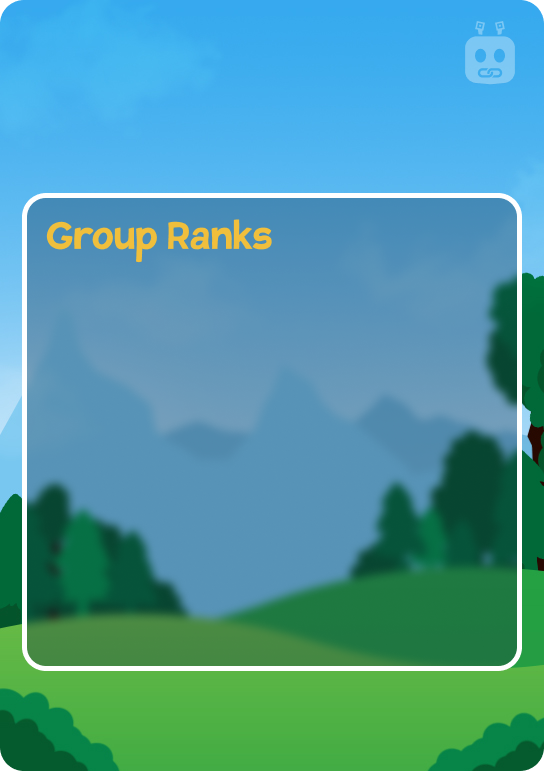
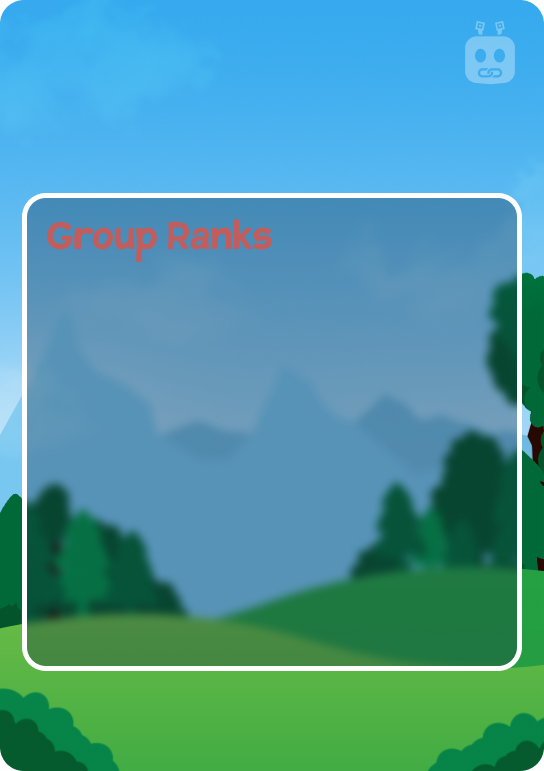
breezy meadows primary color update

Changed region(s): [[0.0625, 0.2802, 0.5, 0.3424]]

diff --git a/src/IMAGES.py b/src/IMAGES.py
@@ -13,6 +13,9 @@ IMAGE_CONFIG = {
                 "front": "assets/backgrounds/getinfo/front/breezy_meadows.png",
                 "back": "assets/backgrounds/getinfo/back/breezy_meadows.png"
             }
+        },
+        "hexes": {
+            "primary_color": (193, 93, 93)
         }
     },
     "deep_seas": {
